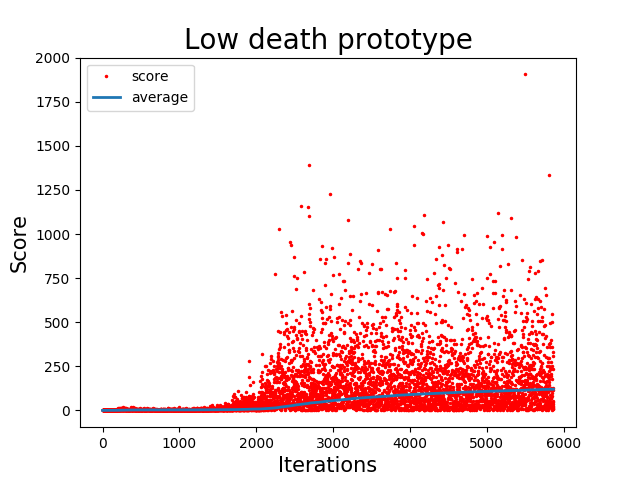
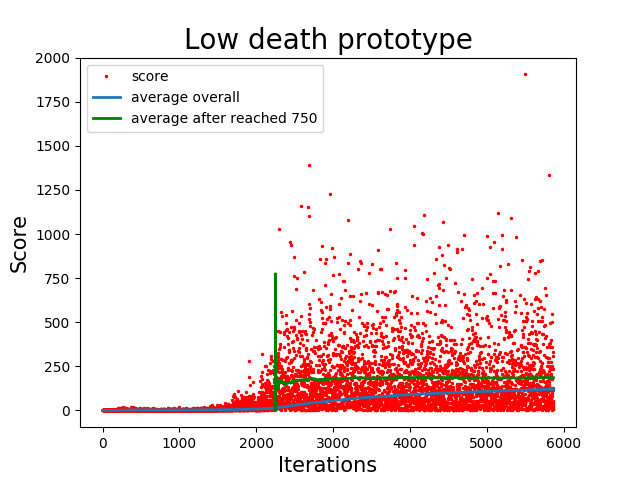
Add files via upload

Changed region(s): [[0.125, 0.1875, 0.5, 0.2812], [0.4062, 0.5625, 0.875, 0.8438]]

diff --git a/low_death prototype/ploting_scores.py b/low_death prototype/ploting_scores.py
@@ -26,17 +26,29 @@ n = len(x)
 
 timer = n * 1.5
 timer += sum(y)*0.6
-pretty_time = time.strftime('%d:%H:%M:%S', time.gmtime(timer))
-days = int(pretty_time.split(':')[0])
+pretty_time = time.strftime('%dd:%Hh:%Mm:%Ss', time.gmtime(timer))
+days = int(pretty_time.split(':')[0][:2])
 days = days-1
 pretty_time = str(int(days / 10))+str(int(days %10))+pretty_time[2:]
 
 
-print("Timer: ", pretty_time, "\nIterations: ", n, "\nAverage score: ", mean(y), )
+stable_x = 0
+for i in y:
+    if i > 750:
+        break
+    stable_x +=1
 
+stable_x_list = x[stable_x:]
+stable_y_list = y[stable_x:]
+avg_list_better = [mean_with_length(stable_y_list,i) for i in range(len(stable_y_list))]
+
+
+print("Timer: ", pretty_time, "\nIterations: ", n, "\nAverage overall: ", mean(y))
+print("Average after reached 750: ", mean(stable_y_list),"\nMax: ", max(y))
 
 plt.plot(x,y,'r.', label = 'score', ms = 3)
-plt.plot(x,avg_list, lw = 2, label = 'average')
+plt.plot(x,avg_list, lw = 2, label = 'average overall')
+plt.plot(stable_x_list, avg_list_better, label = 'average after reached 750', lw = 2, color = 'green')
 plt.xlabel('Iterations', fontsize = 15)
 plt.ylabel('Score', fontsize = 15)
 plt.title('Low death prototype', fontsize = 20)
